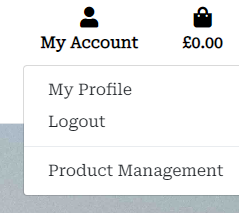
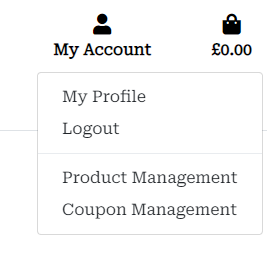
Updated testing.md to include the coupon system

diff --git a/TESTING.md b/TESTING.md
@@ -90,26 +90,26 @@
 
 - All Pages were checked with the official [W3C validator](https://validator.w3.org/). 
 
-#### Home Page
+#### Home Page validation 
 ![home-w3](assets/images/home-w3.png)
-#### Products Page
+#### Products Page validation
 ![products-w3](assets/images/products-w3.png)
-#### Product Details
+#### Product Details validation
 ![product-details-w3](assets/images/product-details-w3.png)
-#### About Us
+#### About Us validation
 ![about-us-w3](assets/images/about-us-w3.png)
-#### Contact
+#### Contact validation
 ![contact-w3](assets/images/contact-w3.png)
-#### Bag
+#### Bag validation
 ![bag-w3](assets/images/bag-w3.png)
-#### Checkout 
+#### Checkout validation 
 ![checkout-w3](assets/images/checkout-w3.png)
-#### Checkout Success
+#### Checkout Success validation
 ![checkout-success-w3](assets/images/checkout-success-w3.png)
-#### Product Management 
+#### Product Management validation 
 - The add product page shows two errors. These are to do with the image upload widget and thus changing the code breaks the field.
 ![add-product-w3](assets/images/add-product-w3.png)    
-#### Edit Review
+#### Edit Review validation
 ![edit-review-w3](assets/images/edit-review-w3.png)
 
 ### CSS
@@ -291,14 +291,14 @@
 - If an admin is logged in, products will show an 'Edit' button on both their product card and their details page.
 - Clicking either of these buttons will take the admin to the 'Edit Product' page where admins can update the product's info.
 
-![Product-management-add](assets/images/product-management-edit.png)
+![Product-management-edit](assets/images/product-management-edit.png)
 
 *As an admin, I can delete a product so that I can remove products no longer available*
 - If an admin is logged in, the products will show a 'Delete' button on both their product card and their details page.
 - Clicking this button will prompt a modal, asking the user if they are sure they want to delete the product.
 - Clicking delete on the modal will remove the product from the database.
 
-![Product-management-add](assets/images/product-management-delete.png)
+![Product-management-delete](assets/images/product-management-delete.png)
 
 *As an admin, I can feature products so that I can display them on the home page*
 - If an admin is logged in, the products will show a 'feature' button on both their product card and their details page.
@@ -307,6 +307,22 @@
 - Featured items will have a banner around the product's image, only visible by admins.
 
 ![Hot-Products-Home](assets/images/hot-products-home.png)
+
+*As an admin, I can add coupon codes so that I can offer discounts to my customers*
+- Admins can navigate to the 'Coupon Management' page under the accounts menu.
+
+![Admin-menu](assets/images/admin-menu.png)
+
+- On this page, the user can add new coupons by filling out a short form. 
+
+*As an admin, I can edit coupon codes so that I change or edit their information*
+- If an admin is logged in, coupons will show an 'Edit' button at the end of their row on the coupon management page.
+- Clicking the edit button will take the admin to the 'Edit Coupon' page where admins can update the coupon's info.
+
+*As an admin, I can delete coupon codes so that I can remove codes no longer valid*
+- If an admin is logged in, coupons will show a 'Delete' button at the end of their row on the coupon management page.
+- Clicking the delete button will prompt a modal, asking the user if they are sure they want to delete the coupon.
+- Clicking delete on the modal will remove the coupon from the database.
 
 [Back to top ⇧](#dry-drops---testing)
 
@@ -685,6 +701,47 @@
     - Only superusers can delete products.
 
     ![Delete-product-Access](assets/gifs/delete-product-access.gif)
+
+- #### Add Coupon
+    Checked that:
+    - The add coupon page is accessed by the account dropdown menu, under coupon management.
+    - The form lists all the necessary fields to create a new coupon. 
+    - The user must fill out all fields with an Asterix. If the form is submitted with any of these fields left blank then an error message will appear above that particular field, notifying the user of the issue.
+    - The Discount code field must be unique. An error message will appear if an already existing discount code is attempted.
+    - If a discount percentage is added that is less than 0 or greater than 100 the form will fail and an error message will appear under the field.
+    - Clicking the 'Add Coupon' button at the bottom of the form will create the coupon providing there are no errors on the form.
+    - A list of all added coupons displays underneath the add coupon form.
+    
+    ![Add Coupon](assets/gifs/add-coupon.gif)
+
+    - It is only accessible by superusers.
+
+    ![Add-coupon-Access](assets/gifs/add-coupon-access.gif)
+
+- #### Edit Coupon
+    Checked that:
+    - The Edit coupon page can be accessed by clicking the 'edit' button at end of the listed coupon, on the coupon management page.
+    - Accessing the page loads the add coupon page, with the details of the coupon already filled in. 
+    - Clicking the 'Update Coupon' button will save any changes made to the existing coupon.  
+
+    ![Edit-Coupon](assets/gifs/edit-coupon.gif)
+
+    - The Edit coupon page can only be accessed by superusers. 
+
+    ![Edit-Coupon-Access](assets/gifs/edit-coupon-access.gif)
+
+- #### Delete Coupon
+    Checked that:
+    - The Delete coupon button is a red trash can icon that can be found at the end of the listed coupon, on the coupon management page.
+    - Clicking the delete button will bring up a warning modal, asking the user if they are sure they want to delete the coupon, and informing them that it is irreversible. 
+    - Once the warning modal has been activated, if the user then clicks the delete button the coupon will be removed from the database. 
+    - If however, the user presses the cancel button, the modal is closed and no effect has taken place. 
+
+    ![Delete-Coupon](assets/gifs/delete-coupon.gif)
+
+    - Only superusers can delete coupons.
+
+    ![Delete-Coupon-Access](assets/gifs/delete-coupon-access.gif)
 
 [Back to top ⇧](#dry-drops---testing)
 

diff --git a/README.md b/README.md
@@ -533,7 +533,7 @@ These phrases can also be used in the metadata at the head of the page.
 - #### Add Coupon
     - The add coupon page is accessed by the account dropdown menu, under coupon management. It is only accessible by superusers.
     - The form lists all the necessary fields to create a new coupon. 
-    - The user must fill out all fields. If the form is submitted with any of these fields left blank then an error message will appear above that particular field, notifying the user of the issue.
+    - The user must fill out all fields with an Asterix. If the form is submitted with any of these fields left blank then an error message will appear above that particular field, notifying the user of the issue.
     - The Discount code field must be unique. An error message will appear if an already existing discount code is attempted.
     - If a discount percentage is added that is less than 0 or greater than 100 the form will fail and an error message will appear under the field.
     - Clicking the 'Add Coupon' button at the bottom of the form will create the coupon providing there are no errors on the form.
